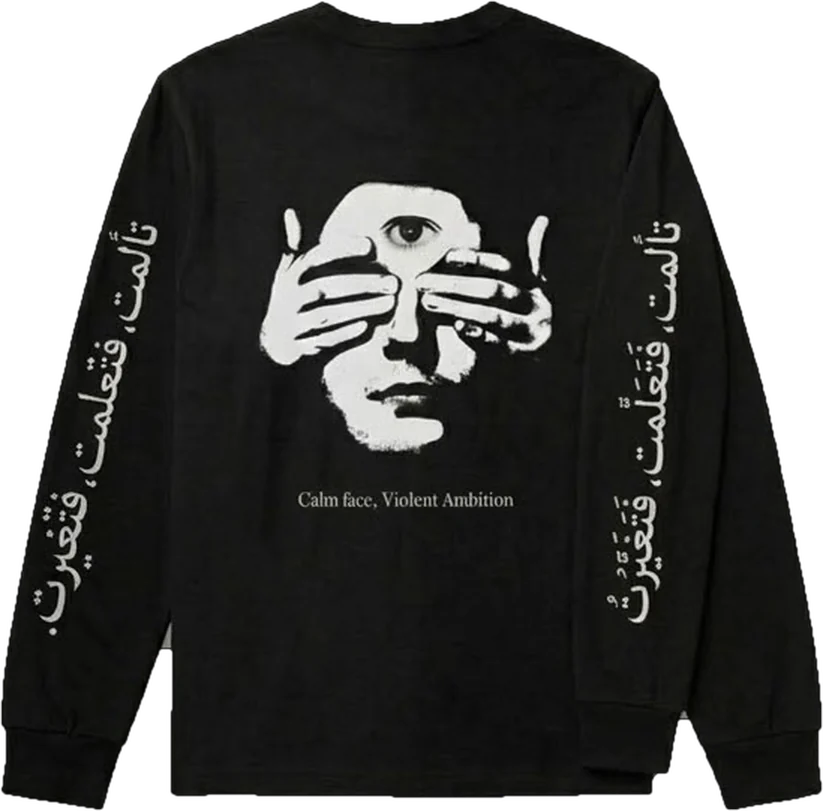
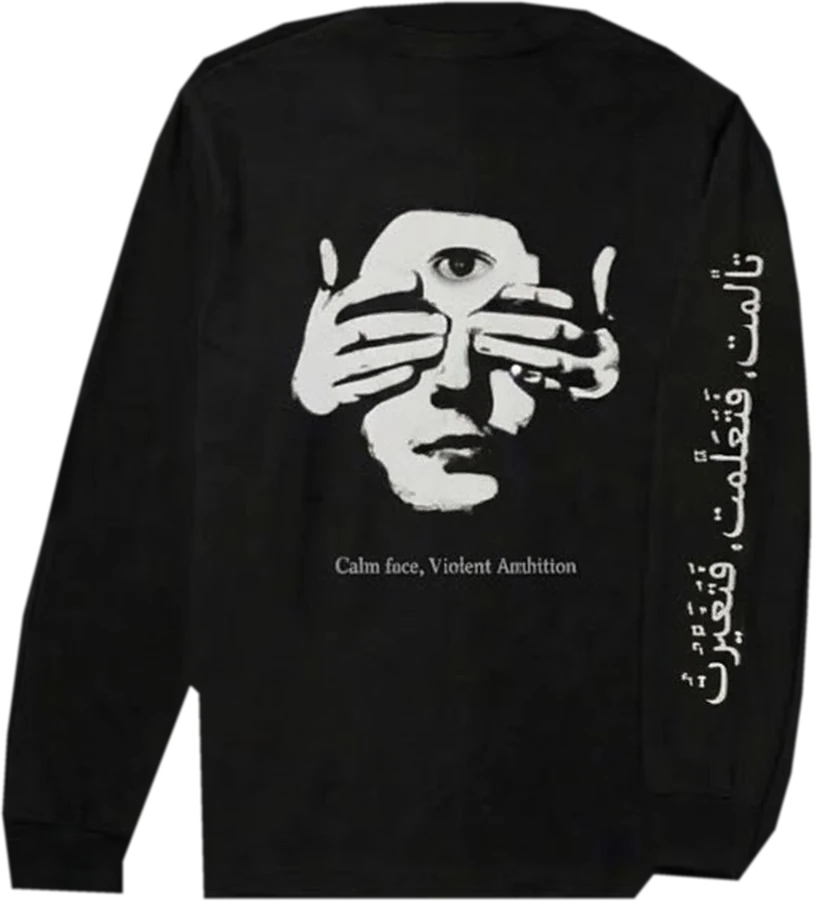
Nueva foto de la espalda de la camiseta larga negra «The Cycle» (texto solo en la manga derecha)

diff --git a/manga-larga-the-cycle.html b/manga-larga-the-cycle.html
@@ -94,7 +94,7 @@
     <article class="pdp" data-product data-id="manga-larga-the-cycle" data-name="Long-sleeve tee «The Cycle»" data-price="55">
       <div class="pdp__media card__media">
         <img class="card__img" data-view="front" src="assets/img/camiseta-manga-larga-negra-frontal-atlas.webp" width="822" height="769" alt="Camiseta larga negra Atlas, vista frontal con una serpiente ouroboros y el texto «The cycle never ends»">
-        <img class="card__img" data-view="back" src="assets/img/camiseta-manga-larga-negra-espalda-atlas.webp" width="823" height="811" loading="lazy" hidden alt="Camiseta larga negra Atlas, vista trasera con un rostro y el texto «Calm face, Violent Ambition»">
+        <img class="card__img" data-view="back" src="assets/img/camiseta-manga-larga-negra-espalda-atlas.webp" width="814" height="902" loading="lazy" hidden alt="Camiseta larga negra Atlas, vista trasera con un rostro y el texto «Calm face, Violent Ambition»">
         <span class="card__tag">First drop · Coming soon</span>
         <div class="view-arrows" role="group" aria-label="Garment view" hidden>
           <button type="button" class="view-arrows__btn view-arrows__btn--prev" data-set-view="front" aria-label="View front" disabled>

diff --git a/catalogo.html b/catalogo.html
@@ -286,7 +286,7 @@
             <a class="card__link" href="manga-larga-the-cycle.html" tabindex="-1" aria-hidden="true"></a>
             <img class="card__img" data-view="front" src="assets/img/camiseta-manga-larga-negra-frontal-atlas.webp" width="822" height="769"
                  alt="Camiseta larga negra Atlas, vista frontal con una serpiente ouroboros y el texto «The cycle never ends»">
-            <img class="card__img" data-view="back" src="assets/img/camiseta-manga-larga-negra-espalda-atlas.webp" width="823" height="811" loading="lazy" hidden
+            <img class="card__img" data-view="back" src="assets/img/camiseta-manga-larga-negra-espalda-atlas.webp" width="814" height="902" loading="lazy" hidden
                  alt="Camiseta larga negra Atlas, vista trasera con un rostro y el texto «Calm face, Violent Ambition»">
             <span class="card__tag">Coming soon</span>
             <div class="view-arrows" role="group" aria-label="Garment view" hidden>
